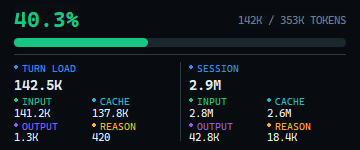
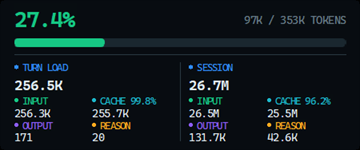
Show cache hit rate in expanded view

diff --git a/internal/ui/app_windows.go b/internal/ui/app_windows.go
@@ -962,7 +962,7 @@ func drawMetricColumn(dc HDC, small, regular, bold HGDIOBJ, fg uint32, colors me
 	drawText(dc, bold, fg, formatTokens(usage.TotalTokens), rect{area.Left, area.Top + 14, area.Right, area.Top + 34}, dtLeft|dtVCenter|dtSingleLine)
 	middle := area.Left + (area.Right-area.Left)/2
 	drawMetricLabel(dc, small, colors.input, "INPUT", rect{area.Left, area.Top + 34, middle, area.Top + 46})
-	drawMetricLabel(dc, small, colors.cache, "CACHE", rect{middle, area.Top + 34, area.Right, area.Top + 46})
+	drawMetricLabel(dc, small, colors.cache, formatCacheLabel(usage), rect{middle, area.Top + 34, area.Right, area.Top + 46})
 	drawText(dc, regular, fg, formatTokens(usage.InputTokens), rect{area.Left, area.Top + 45, middle, area.Top + 59}, dtLeft|dtVCenter|dtSingleLine)
 	drawText(dc, regular, fg, formatTokens(usage.CachedInputTokens), rect{middle, area.Top + 45, area.Right, area.Top + 59}, dtLeft|dtVCenter|dtSingleLine)
 	drawMetricLabel(dc, small, colors.output, "OUTPUT", rect{area.Left, area.Top + 59, middle, area.Top + 71})
@@ -1031,6 +1031,17 @@ func formatTokens(value int64) string {
 	default:
 		return fmt.Sprintf("%d", value)
 	}
+}
+
+func formatCacheLabel(usage meter.Usage) string {
+	percent, ok := usage.CacheHitPercent()
+	if !ok {
+		return "CACHE --"
+	}
+	if percent >= 99.95 {
+		return "CACHE 100%"
+	}
+	return fmt.Sprintf("CACHE %.1f%%", percent)
 }
 
 func formatHeaderTokens(value int64) string {

diff --git a/internal/ui/layout_windows_test.go b/internal/ui/layout_windows_test.go
@@ -1,6 +1,36 @@
 package ui
 
-import "testing"
+import (
+	"testing"
+
+	"codex-context-meter-lite/internal/meter"
+)
+
+func TestFormatCacheLabel(t *testing.T) {
+	tests := []struct {
+		name  string
+		usage meter.Usage
+		want  string
+	}{
+		{name: "turn", usage: meter.Usage{InputTokens: 141_200, CachedInputTokens: 137_800}, want: "CACHE 97.6%"},
+		{name: "session", usage: meter.Usage{InputTokens: 2_840_000, CachedInputTokens: 2_610_000}, want: "CACHE 91.9%"},
+		{name: "zero", usage: meter.Usage{InputTokens: 100}, want: "CACHE 0.0%"},
+		{name: "unavailable", usage: meter.Usage{}, want: "CACHE --"},
+		{name: "negative cache", usage: meter.Usage{InputTokens: 100, CachedInputTokens: -1}, want: "CACHE --"},
+		{name: "clamped", usage: meter.Usage{InputTokens: 100, CachedInputTokens: 120}, want: "CACHE 100%"},
+	}
+	for _, test := range tests {
+		t.Run(test.name, func(t *testing.T) {
+			got := formatCacheLabel(test.usage)
+			if got != test.want {
+				t.Fatalf("formatCacheLabel() = %q, want %q", got, test.want)
+			}
+			if len(got) > 11 {
+				t.Fatalf("cache label %q exceeds the metric cell capacity", got)
+			}
+		})
+	}
+}
 
 func TestPanelHeight(t *testing.T) {
 	tests := []struct {

diff --git a/internal/meter/meter_test.go b/internal/meter/meter_test.go
@@ -1,9 +1,34 @@
 package meter
 
 import (
+	"math"
 	"testing"
 	"time"
 )
+
+func TestUsageCacheHitPercent(t *testing.T) {
+	tests := []struct {
+		name  string
+		usage Usage
+		want  float64
+		ok    bool
+	}{
+		{name: "turn", usage: Usage{InputTokens: 141_200, CachedInputTokens: 137_800}, want: 97.59206798866856, ok: true},
+		{name: "session", usage: Usage{InputTokens: 2_840_000, CachedInputTokens: 2_610_000}, want: 91.90140845070422, ok: true},
+		{name: "no cache", usage: Usage{InputTokens: 100}, want: 0, ok: true},
+		{name: "no input", usage: Usage{}, ok: false},
+		{name: "negative cache", usage: Usage{InputTokens: 100, CachedInputTokens: -1}, ok: false},
+		{name: "cache exceeds input", usage: Usage{InputTokens: 100, CachedInputTokens: 120}, want: 100, ok: true},
+	}
+	for _, test := range tests {
+		t.Run(test.name, func(t *testing.T) {
+			got, ok := test.usage.CacheHitPercent()
+			if ok != test.ok || math.Abs(got-test.want) > 1e-9 {
+				t.Fatalf("CacheHitPercent() = (%v, %v), want (%v, %v)", got, ok, test.want, test.ok)
+			}
+		})
+	}
+}
 
 func TestBuildUsesTotalTokensForContextPressure(t *testing.T) {
 	snapshot := Build(TokenInfo{

diff --git a/internal/ui/capture_windows_test.go b/internal/ui/capture_windows_test.go
@@ -89,6 +89,14 @@ func TestCaptureDemoWindow(t *testing.T) {
 			t.Fatal("meter window did not expand on hover")
 		}
 	}
+	if os.Getenv("CCML_CAPTURE_TOGGLE_THEME") == "1" {
+		procSendMessage.Call(uintptr(hwnd), wmCommand, uintptr(idToggleTheme), 0)
+		defer func() {
+			procSendMessage.Call(uintptr(hwnd), wmCommand, uintptr(idToggleTheme), 0)
+			time.Sleep(300 * time.Millisecond)
+		}()
+		time.Sleep(300 * time.Millisecond)
+	}
 	img, err := captureWindow(hwnd)
 	if err != nil {
 		t.Fatal(err)

diff --git a/internal/meter/meter.go b/internal/meter/meter.go
@@ -13,6 +13,14 @@ type Usage struct {
 	TotalTokens           int64 `json:"total_tokens"`
 }
 
+func (usage Usage) CacheHitPercent() (float64, bool) {
+	if usage.InputTokens <= 0 || usage.CachedInputTokens < 0 {
+		return 0, false
+	}
+	percent := float64(usage.CachedInputTokens) / float64(usage.InputTokens) * 100
+	return clamp(percent, 0, 100), true
+}
+
 type TokenInfo struct {
 	TotalUsage         Usage `json:"total_token_usage"`
 	LastUsage          Usage `json:"last_token_usage"`

diff --git a/cmd/meter/main.go b/cmd/meter/main.go
@@ -18,7 +18,7 @@ import (
 	"golang.org/x/sys/windows"
 )
 
-const version = "0.1.0"
+const version = "0.1.1"
 
 var defaultDemo = "false"
 

diff --git a/README.md b/README.md
@@ -16,7 +16,7 @@ Codex Context Meter Lite reads the local session JSONL files already produced by
 
 - **Live context usage:** Checks the active session every 500 ms and calculates Used/Left as `last_token_usage.total_tokens / model_context_window`.
 - **Continuous pressure bar:** Green through 75% used, amber above 75% through 85%, and red above 85%.
-- **Compact and detailed views:** Shows a 28 px compact strip by default; hover to expand Turn and Session totals for Total, Input, Cache, Output, and Reasoning tokens.
+- **Compact and detailed views:** Shows a 28 px compact strip by default; hover to expand Turn and Session totals for Total, Input, Cache, cache hit rate, Output, and Reasoning tokens.
 - **Codex window tracking:** The non-activating overlay identifies Codex using package identity and controlled path rules, follows the active Codex window when multiple windows are open, and tracks movement, resizing, minimization, DPI, and monitor changes.
 - **Four-corner anchoring:** Drag it to any Codex window corner. Top anchors expand downward and bottom anchors expand upward.
 - **Automatic or pinned task:** Selects the latest session containing a valid `token_count` event by default, or lets you pin a task from the tray menu. Task names come from `session_index.jsonl`.
@@ -85,10 +85,13 @@ When `Start with Windows` is enabled, the app writes only `HKCU\Software\Microso
 | `Session` | Cumulative `total_token_usage` for the session |
 | `Input` | Input tokens |
 | `Cache` | Cached input tokens |
+| `Cache hit` | Cached input tokens divided by input tokens for the turn or session |
 | `Output` | Output tokens |
 | `Reasoning` | Reasoning output tokens |
 
 `Session` is cumulative consumption, not model context-window occupancy; context pressure always uses the latest `last_token_usage.total_tokens`.
+
+Cache hit rate is calculated independently for Turn and Session. The Session value uses cumulative cached input tokens divided by cumulative input tokens; it is not an average of per-turn percentages.
 
 ## Troubleshooting
 
@@ -135,7 +138,7 @@ go vet ./...
 .\scripts\build.ps1
 ```
 
-The release script creates a portable single-EXE ZIP and installs no dependencies. The current build target is `dist\codex-context-meter-lite-windows-amd64-v0.1.0.zip`.
+The release script creates a portable single-EXE ZIP and installs no dependencies. The current build target is `dist\codex-context-meter-lite-windows-amd64-v0.1.1.zip`.
 
 ## Uninstall
 
